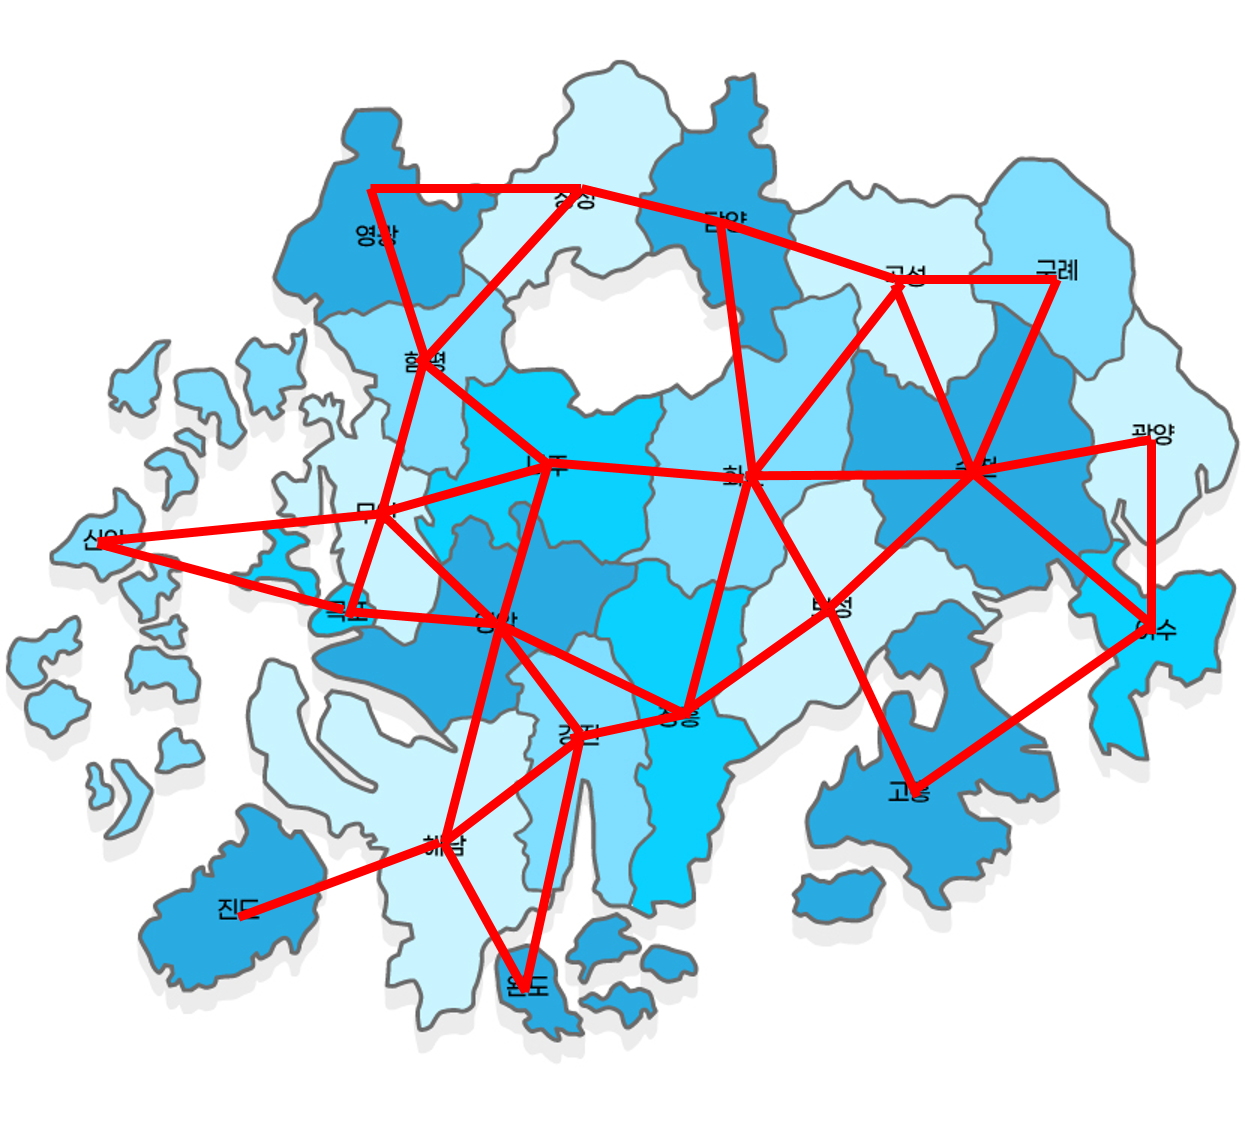
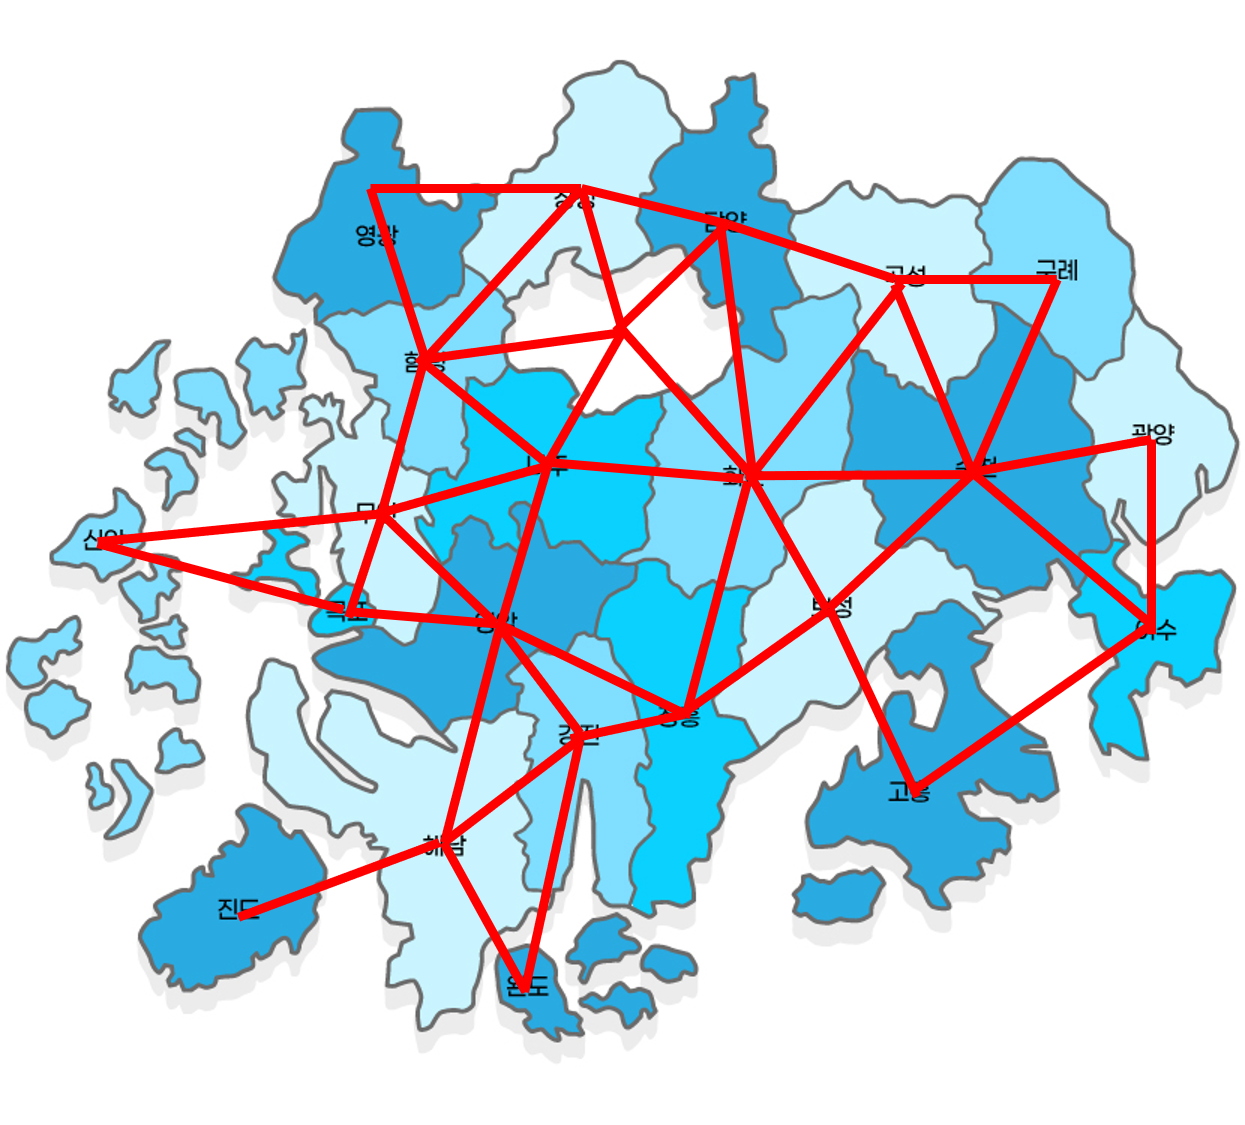
Add files via upload

diff --git a/jn_math-tour.js b/jn_math-tour.js
@@ -5,7 +5,7 @@ function bg(bb) {
       document.getElementById(i).style.backgroundColor="#ffc19e";
   }
 
-  for(i=0;i<22;i++){
+  for(i=0;i<23;i++){
   if (list[i]==1){
     document.getElementById(i).style.backgroundColor="skyblue";
   } else {
@@ -30,7 +30,7 @@ let count = 1;
 function success(){
   let re = document.getElementById("result");
   math_sum=0;
-  for(i=0;i<22;i++)
+  for(i=0;i<23;i++)
     math_sum=math_sum+list[i]*mathtour_list[i]
  
   if(math_sum==12){
@@ -46,14 +46,14 @@ function success(){
     }
   }
 }
+jn_name=['목포', '여수', '순천', '나주', '광양', '담양', '곡성', '구례', '고흥', '보성', '화순', '장흥', '강진', '해남', '영암', '무안', '함평', '영광', '장성', '완도', '진도', '신안','광주'];
+jn_left=['70','320','267','140','325','190','245','300','250','225','200','180','140','100','120','85','100','80','140','130','40','5','160'];
+jn_top=['250','249','200','195','190','125','140','140','300','245','200','265','290','320','245','205','160','115','115','360','335','220','155'];
 
-jn_name=['목포', '여수', '순천', '나주', '광양', '담양', '곡성', '구례', '고흥', '보성', '화순', '장흥', '강진', '해남', '영암', '무안', '함평', '영광', '장성', '완도', '진도', '신안'];
-jn_left=['70','320','267','140','325','190','245','300','250','225','200','180','140','100','120','85','100','80','140','130','40','5'];
-jn_top=['250','249','200','195','190','125','140','140','300','245','200','265','290','320','245','205','160','115','115','360','335','220'];
+path=[[14,15,21],[2,4,8],[1,4,6,7,9,10],[10,14,15,16,22],[1,2],[6,10,18,22],[2,5,7,10],[2,6],[1,9],[2,8,10,11],[2,3,5,6,9,11,22],[9,10,12,14],[11,13,14,19],[12,14,19,20],[0,3,11,12,13,15],[0,3,14,16,21],[3,15,17,18,22],[16,18],[5,16,17,22],[12,13],[13],[0,15],[3,5,10,16,18]];
 
-path=[[14,15,21],[2,4,8],[1,4,6,7,9,10],[10,14,15,16],[1,2],[6,10,18],[2,5,7,10],[2,6],[1,9],[2,8,10,11],[2,3,5,6,9,11],[9,10,12,14],[11,13,14,19],[12,14,19,20],[0,3,11,12,13,15],[0,3,14,16,21],[3,15,17,18],[16,18],[5,16,17],[12,13],[13],[0,15]];
 
-mathtour_list=[1,1,1,1,1,1,0,0,0,0,1,0,1,0,1,0,0,1,0,0,1,1]
+mathtour_list=[1,1,1,1,1,1,0,0,0,0,1,0,1,0,1,0,0,1,0,0,1,1,0]
 
 
 function clickbt(j) {
@@ -93,7 +93,7 @@ function clickbt(j) {
     document.imgp.width="380";
 
     let tag = "<div class='container'>";
-      for (i = 0; i < 22; i++) {
+      for (i = 0; i < 23; i++) {
         list.push(0);
         list_number.push(0);
         tag += "<div class='column' id='"+i+"' style=width:40px;height:40px;left:"+(jn_left[i]-180)+"px;top:"+(jn_top[i]-75)+"px; onclick='clickbt("+i+")'></div>";      }
@@ -103,7 +103,7 @@ function clickbt(j) {
       console.log=tag;
       document.getElementById("result").textContent = "출발지를 선택하십시오.";
       
-      for (i = 0; i < 22; i++) {
+      for (i = 0; i < 23; i++) {
         document.getElementById(i).textContent = jn_name[i];
         if(mathtour_list[i]==1)
           document.getElementById(i).style.backgroundColor="#d1b2ff";

diff --git a/jn.js b/jn.js
@@ -9,7 +9,7 @@ function getDisplayInfo() {
 
 function bg(bb) {
   success_ck=false;
-  for(i=0;i<22;i++){
+  for(i=0;i<23;i++){
   if (list[i]==1){
     document.getElementById(i).style.backgroundColor="skyblue";
   } else {
@@ -41,11 +41,11 @@ function success(){
   }
 }
 
-jn_name=['목포', '여수', '순천', '나주', '광양', '담양', '곡성', '구례', '고흥', '보성', '화순', '장흥', '강진', '해남', '영암', '무안', '함평', '영광', '장성', '완도', '진도', '신안'];
-jn_left=['70','320','267','140','325','190','245','300','250','225','200','180','140','100','120','85','100','80','140','130','40','5'];
-jn_top=['250','249','200','195','190','125','140','140','300','245','200','265','290','320','245','205','160','115','115','360','335','220'];
+jn_name=['목포', '여수', '순천', '나주', '광양', '담양', '곡성', '구례', '고흥', '보성', '화순', '장흥', '강진', '해남', '영암', '무안', '함평', '영광', '장성', '완도', '진도', '신안','광주'];
+jn_left=['70','320','267','140','325','190','245','300','250','225','200','180','140','100','120','85','100','80','140','130','40','5','160'];
+jn_top=['250','249','200','195','190','125','140','140','300','245','200','265','290','320','245','205','160','115','115','360','335','220','155'];
 
-path=[[14,15,21],[2,4,8],[1,4,6,7,9,10],[10,14,15,16],[1,2],[6,10,18],[2,5,7,10],[2,6],[1,9],[2,8,10,11],[2,3,5,6,9,11],[9,10,12,14],[11,13,14,19],[12,14,19,20],[0,3,11,12,13,15],[0,3,14,16,21],[3,15,17,18],[16,18],[5,16,17],[12,13],[13],[0,15]];
+path=[[14,15,21],[2,4,8],[1,4,6,7,9,10],[10,14,15,16,22],[1,2],[6,10,18,22],[2,5,7,10],[2,6],[1,9],[2,8,10,11],[2,3,5,6,9,11,22],[9,10,12,14],[11,13,14,19],[12,14,19,20],[0,3,11,12,13,15],[0,3,14,16,21],[3,15,17,18,22],[16,18],[5,16,17,22],[12,13],[13],[0,15],[3,5,10,16,18]];
 
 function clickbt(j) {
   if(Math.max(...list)==0 || (list[j]==0 && path[parseInt(last_j)].includes(j))){
@@ -100,17 +100,17 @@ function clickbt(j) {
     document.imgp.width="380";
 
     let tag = "<div class='container'>";
-      for (i = 0; i < 22; i++) {
+      for (i = 0; i < 23; i++) {
         list.push(0);
         list_number.push(0);
-        // 22시군 크기 및 위치, 크기 최소 W,H: 30px
+        // 22시군+광주 크기 및 위치, 크기 최소 W,H: 30px
         tag += "<div class='column' id='"+i+"' style=width:40px;height:40px;left:"+(jn_left[i]-180)+"px;top:"+(jn_top[i]-75)+"px; onclick='clickbt("+i+")'></div>";      }
       tag += "</div>";
       area.innerHTML = tag;
       console.log=tag;
       document.getElementById("result").textContent = "출발지를 선택하십시오.";
       
-      for (i = 0; i < 22; i++) {
+      for (i = 0; i < 23; i++) {
         document.getElementById(i).textContent = jn_name[i];
       }
     }

diff --git a/jn_math-tour.html b/jn_math-tour.html
@@ -5,11 +5,11 @@
         <meta name="viewport" content="width=device-width, initial-scale=1.0">
         <link rel="stylesheet" href="./jn_math-tour.css">
         <script src="./jn_math-tour.js"></script>
-        <title>전남 math-tour</title>
+        <title>전남광주 math-tour</title>
     </head>
     <body>
         <center>
-        <font size=6px>전남 math-tour</font>
+        <font size=6px>전남광주 math-tour</font>
         </center>
         <hr/>
 
@@ -22,10 +22,10 @@
 
         <div id="result" style="font-size:30px">출발</div><br>
         
-        <div style="font-size:20px"><b>[전남 math-tour 규칙]</b>
+        <div style="font-size:20px"><b>[전남광주 math-tour 규칙]</b>
         </div><div style="font-size:20px">
         1. 출발지부터 길을 따라 움직인다.<br>
         2. 한 번 지나간 지점을 다시  갈 수 없다.<br>
-        3. 전남 math-tour가 개발된 12곳은 모두<br> 방문하여야 하며 최소의 지역만 지나간다.</div>
+        3. 전남광주 math-tour가 개발된 12곳은 모두<br> 방문하여야 하며 최소의 지역만 지나간다.</div>
     </body>
 </html>

diff --git a/jn.html b/jn.html
@@ -5,11 +5,11 @@
         <meta name="viewport" content="width=device-width, initial-scale=1.0">
         <link rel="stylesheet" href="./jn.css">
         <script src="./jn.js"></script>
-        <title>전라남도 여행</title>
+        <title>전남광주통합특별시 여행</title>
     </head>
     <body>
         <center>
-        <font size=6px>전라남도 여행</font>
+        <font size=6px>전남광주통합특별시 여행</font>
         </center>
         <hr/>
 
@@ -27,7 +27,7 @@
         <div id="bbb" style="font-size:30px;top:550px">출발</div>
         <div id="ccc" style="font-size:30px;top:600px">출발</div> -->
         
-        <div style="font-size:20px"><b>[전라남도 여행의 규칙]</b>
+        <div style="font-size:20px"><b>[전남광주통합특별시 여행의 규칙]</b>
         </div><div style="font-size:20px">
         1. 출발지부터 길을 따라 움직인다.<br>
         2. 한 번 지나간 지점을 다시  갈 수 없다.<br>
